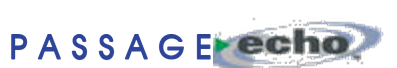
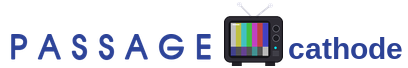
Passage wears Cathode's own mark instead of the echo tag and swoosh
The lockup keeps the PASSAGE letters and follows them with Cathode's set and
name. The guide card's swoosh is the same set, drawn in strokes so it stays
crisp. Comments and the skin notes no longer name the other company's product
as the mark; the research docs still cite the manual they were measured from.

diff --git a/cathode/skins/chrome.py b/cathode/skins/chrome.py
@@ -243,20 +243,41 @@ def _pa_shadow(x, y, w, h, radius=0, depth=10, alpha=150):
             ("hgrad", (x, y, depth, h), (*PA_SHADE, alpha), (*PA_SHADE, 0), radius)]
 
 
+def _tv(x, y, w):
+    """Cathode's own mark, the set of assets/cathode.png in strokes, w wide:
+    the aerials, the cabinet, the colour bars, the knobs."""
+    u = w / 256
+
+    def box(a, b, c, d):
+        return (x + a * u, y + b * u, c * u, d * u)
+
+    def dot(a, b, r):
+        return (x + a * u, y + b * u, r * u)
+
+    def aerial(a, b):
+        return ("line", (x + (a + b) / 2 * u, y + 62 * u, x + a * u, y + b * u), (185, 185, 195), 6 * u)
+    bars = ((190, 190, 190), (205, 205, 25), (25, 190, 205), (30, 195, 60), (205, 35, 205), (205, 25, 25), (25, 25, 205))
+    return ([aerial(78, 18), aerial(188, 22),
+             ("circle", dot(78, 18, 9), (215, 215, 225)), ("circle", dot(188, 22, 9), (215, 215, 225)),
+             ("fill", box(52, 216, 34, 22), (26, 26, 32)), ("fill", box(170, 216, 34, 22), (26, 26, 32)),
+             ("fill", box(24, 60, 208, 164), (42, 42, 50), (4, 4, 4, 4)),
+             ("fill", box(42, 78, 148, 130), (12, 12, 16), (2, 2, 2, 2))]
+            + [("fill", box(48 + 19.5 * i, 84, 19.5, 84), bar) for i, bar in enumerate(bars)]
+            + [("fill", box(48, 170, 136, 32), (48, 44, 96)),
+               ("circle", dot(208, 104, 13), (120, 120, 132)), ("circle", dot(208, 104, 9), (42, 42, 50)),
+               ("circle", dot(208, 138, 13), (120, 120, 132)), ("circle", dot(208, 138, 9), (42, 42, 50)),
+               ("circle", dot(207, 172, 5), (60, 225, 235))])
+
+
 def _pa_card(x=46, y=33, w=274, h=190, radius=(24, 0, 0, 0)):
     """The cream card: a dark outline, the cream lit at the top, an inner
-    shadow along its top, left and right, and the echo swoosh."""
+    shadow along its top, left and right, and Cathode's set in its corner."""
     return ([("fill", (x, y, w, h), (96, 96, 72), radius),
              ("grad", (x + 3, y + 3, w - 3, h - 3), PA_CREAM, (224, 213, 129), _r(radius, 3)),
              ("hgrad", (x + w - 14, y + 3, 14, h - 3), (*PA_SHADE, 0), (*PA_SHADE, 120))]
             + _pa_shadow(x + 3, y + 3, w - 3, h - 3, _r(radius, 3), 12, 190) + [
-            ("grad", (x + 3, y + h - 8, w - 3, 8), (*PA_SHADE, 0), (*PA_SHADE, 90)),
-            ("circle", (283, 70, 22), (60, 100, 185)),                   # the swoosh: two crescents and a ball
-            ("circle", (288, 67, 21), (224, 221, 145)),
-            ("circle", (288, 76, 13), (130, 170, 225)),
-            ("circle", (292, 74, 12), (224, 221, 145)),
-            ("circle", (301, 93, 6), (40, 80, 190)),
-            ("circle", (299, 91, 2), (200, 220, 255))])
+            ("grad", (x + 3, y + h - 8, w - 3, 8), (*PA_SHADE, 0), (*PA_SHADE, 90))]
+            + _tv(262, 44, 46))
 
 
 def _pa_strip(y=200, maroon=(89, 19, 30), tab=(156, 144, 188)):

diff --git a/cathode/skins/cable.py b/cathode/skins/cable.py
@@ -1313,8 +1313,8 @@ class IGrid(CableSkin):
 
 
 class Passage(CableSkin):
-    """Passage: Passport Echo on the 2004 Scientific Atlanta boxes, drawn to
-    the viewer's manual's frames (640x480) in Archivo Narrow, the condensed
+    """Passage: a 2004 Scientific Atlanta box's guide, drawn to its viewer's
+    manual's frames (640x480) in Archivo Narrow, the condensed
     face the box lettered in. A silver page; the cream card top-left with
     the channel disc, call sign, title, hours and synopsis; the picture
     top-right over the maroon channel strip with the clock in its dark
@@ -1324,7 +1324,7 @@ class Passage(CableSkin):
     light channel tile, the clock tab and the green progress line."""
     name = "passage"
     label = "Passage"
-    MARK, MARK_TAG = "Passage", "echo"
+    MARK, MARK_TAG = "Passage", "cathode"
     default_font = "akzidenz"
     guide_hours = 2                 # 137 a half hour, as the frame: the fourth column runs off the edge
     NO_SIGNAL = ("Not Available", "This channel is not available at this time.", "Please try again later.")
@@ -1389,10 +1389,10 @@ class Passage(CableSkin):
         self.tx(c, word, f, ink or b["ink"], x, y + Y(8))
         return x + self.width(f, word)
 
-    # ── The mark: the frame's own 'PASSPORT echo' lockup ──────────────────
+    # ── The mark: PASSAGE, then Cathode's own set and name ────────────────
 
     def wordmark(self, c, x, y, size, ink=None):
-        """The PASSAGE echo lockup (chrome.py mark.png, drawn at
+        """The PASSAGE cathode lockup (assets' mark.png, drawn at
         twice the frames' size: 16 is the frames' own, 34 tall), scaled to
         `size`; `ink` is ignored, the lockup keeps its colours."""
         h = int(34 * size / 16)
@@ -1518,7 +1518,7 @@ class Passage(CableSkin):
 
     def draw_guide(self, c, g):
         """The guide on the frame itself: the page, card, time header,
-        channel column, grid panel, mark and foot are the Passport Echo
+        channel column, grid panel, mark and foot are the
         frame's own pixels (chrome.py guide.png) with its text
         taken out; the picture shows through the window; the channel tile,
         call sign and number, title, hours, rating and synopsis, the day
@@ -1636,7 +1636,7 @@ class Passage(CableSkin):
 
     def _banner(self, c, ch, cur, nxt, full=False, tag=None):
         """The banner on the frame itself: the band and the channel tile
-        with its slant are the Passport Echo frame's own pixels
+        with its slant are the frame's own pixels
         (chrome.py banner.png, y 357-447); the clock, logo, call
         sign and number on the tile, the title and hours on the title
         strip, the start and end times, the green line with its ticks and

diff --git a/docs/cathode-4/skin-references.md b/docs/cathode-4/skin-references.md
@@ -354,10 +354,10 @@ without clean frames they never got past a re-coloured body.
   `row_sel.png` is re-cut from the frame's column 420 (the pale yellow
   (255,255,155) row; the first cut had sampled its olive edge). The list
   pages' heading starts at x 48 (the frame's heart gone). Passage's
-  `mark.png` is now "PASSAGE echo" at twice the frames' size (397 x 68):
+  `mark.png` is now "PASSAGE cathode" at twice the frames' size (408 x 68):
   PASSAGE in Avante (an Avant Garde clone, C:\Windows\Fonts\avante.TTF)
-  caps 12 tall, navy (44,66,150), 4 apart, then the frame's own arrow and
-  echo swoosh cropped from the original mark (x 98-190, 2x); the old mark
+  caps 12 tall, navy (44,66,150), 4 apart, then Cathode's own set
+  (assets/cathode.png) and name in Liberation Sans Bold; the old mark
   is erased from guide.png (its origin (42,416)), od.png ((59,44)) and
   markbox.png ((59,2)) by running each row between two clean columns, and
   `Passage._mark()` draws the new one there at half size. The key bar's

diff --git a/CHANGELOG.md b/CHANGELOG.md
@@ -9,6 +9,10 @@
   runtime and as much of its summary as fits (recordings too). A season's
   episodes are always a list, poster wall or not. The wall's panel lost the
   list's rules behind the posters, and the posters took the title row's room.
+- **Passage wears our own mark.** The other company's tag and swoosh are gone:
+  the lockup now reads PASSAGE with Cathode's own TV and name, wherever it
+  shows (guide, On Demand, boot, screensaver), and the same TV sits in the
+  guide card's corner.
 
 ## 4.43
 
